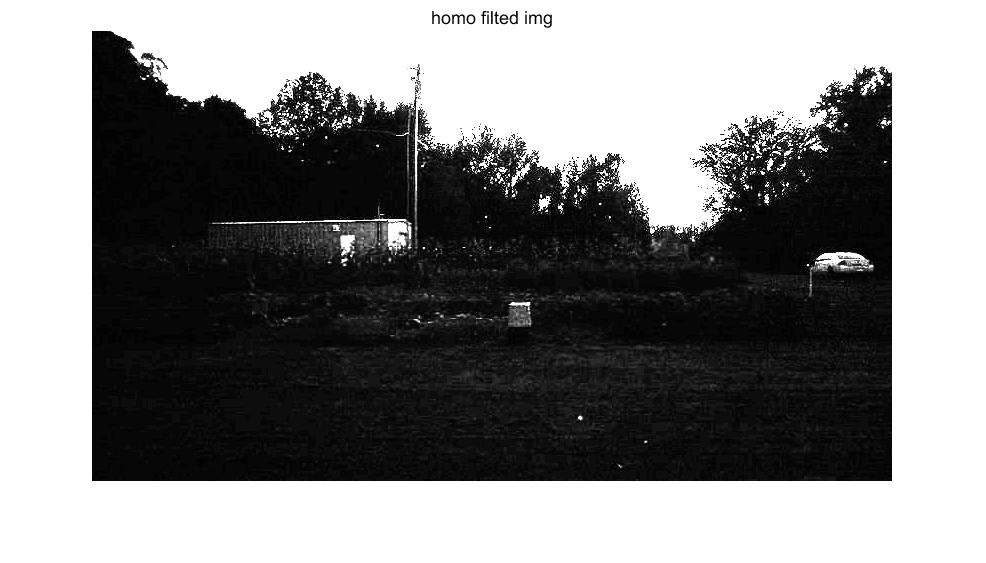
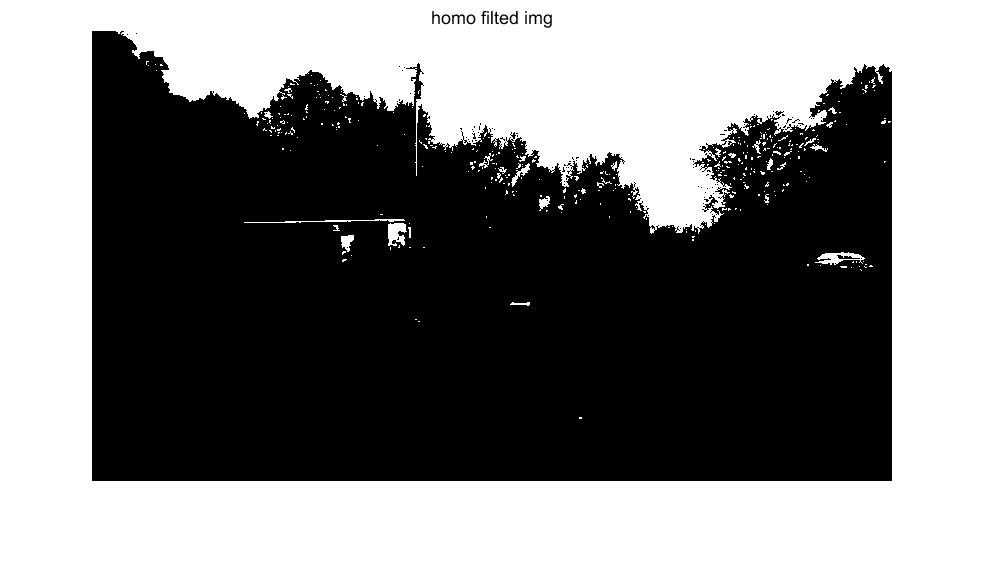
Site updated: 2020-10-13 15:33:39

diff --git a/2020/10/06/Matlab-同态滤波/index.html b/2020/10/06/Matlab-同态滤波/index.html
@@ -87,9 +87,13 @@
 <meta property="og:description" content="一、什么是同态滤波根据成像原理，一幅图像可以分成两种成分的乘积叠加，一种成分是入射的光强L(x,y)，另一种是反射到人眼中的光强R(x,y)，二者是乘性叠加，所以一幅图像可以表示为F(x,y)&#x3D;L(x,y)*R(x,Y)。同态滤波通过将图像取对数，ln(F(x,y))&#x3D;ln(L(x,y))+ln(R(x,y))，将乘性耦合的入射光和反射光成分解耦，变成加性耦合，这样就可以利用线性性分别对两种成分进">
 <meta property="og:locale" content="zh_CN">
 <meta property="og:image" content="http://jiahaohong.github.io/2020/10/06/Matlab-%E5%90%8C%E6%80%81%E6%BB%A4%E6%B3%A2/1.jpg">
+<meta property="og:image" content="http://jiahaohong.github.io/2020/10/06/Matlab-%E5%90%8C%E6%80%81%E6%BB%A4%E6%B3%A2/gray.jpg">
 <meta property="og:image" content="http://jiahaohong.github.io/2020/10/06/Matlab-%E5%90%8C%E6%80%81%E6%BB%A4%E6%B3%A2/0_2-2-0_2-1000.jpg">
+<meta property="og:image" content="http://jiahaohong.github.io/2020/10/06/Matlab-%E5%90%8C%E6%80%81%E6%BB%A4%E6%B3%A2/error1.jpg">
+<meta property="og:image" content="http://jiahaohong.github.io/2020/10/06/Matlab-%E5%90%8C%E6%80%81%E6%BB%A4%E6%B3%A2/homofilt.jpg">
+<meta property="og:image" content="http://jiahaohong.github.io/2020/10/06/Matlab-%E5%90%8C%E6%80%81%E6%BB%A4%E6%B3%A2/sign.jpg">
 <meta property="article:published_time" content="2020-10-06T02:51:54.000Z">
-<meta property="article:modified_time" content="2020-10-09T06:15:50.835Z">
+<meta property="article:modified_time" content="2020-10-13T07:32:50.353Z">
 <meta property="article:author" content="Darcy">
 <meta property="article:tag" content="Matlab">
 <meta property="article:tag" content="图像处理">
@@ -354,16 +358,30 @@
         <h3 id="一、什么是同态滤波"><a href="#一、什么是同态滤波" class="headerlink" title="一、什么是同态滤波"></a>一、什么是同态滤波</h3><p>根据成像原理，一幅图像可以分成两种成分的乘积叠加，一种成分是入射的光强<strong>L(x,y)</strong>，另一种是反射到人眼中的光强<strong>R(x,y)</strong>，二者是乘性叠加，所以一幅图像可以表示为<strong>F(x,y)=L(x,y)*R(x,Y)</strong>。<br>同态滤波通过将图像取对数，<strong>ln(F(x,y))=ln(L(x,y))+ln(R(x,y))</strong>，将乘性耦合的入射光和反射光成分解耦，变成加性耦合，这样就可以利用线性性分别对两种成分进行滤波处理。由于反射光强一般是高频成分，而入射光强是低频成分，所以用高通滤波器可以将入射光成分滤掉，得到更加清楚的细节。同态滤波是通过物理规律将图像进行分解操作，滤波器是在滤波过程中的一种频率选择方法，同态滤波并没有设计一种新的滤波器。</p>
 <h3 id="二、同态滤波实现"><a href="#二、同态滤波实现" class="headerlink" title="二、同态滤波实现"></a>二、同态滤波实现</h3><h4 id="同态滤波结构"><a href="#同态滤波结构" class="headerlink" title="同态滤波结构"></a>同态滤波结构</h4><figure class="highlight plain"><table><tr><td class="gutter"><pre><span class="line">1</span><br><span class="line">2</span><br><span class="line">3</span><br><span class="line">4</span><br><span class="line">5</span><br><span class="line">6</span><br><span class="line">7</span><br><span class="line">8</span><br><span class="line">9</span><br><span class="line">10</span><br><span class="line">11</span><br></pre></td><td class="code"><pre><span class="line">homomophic filter</span><br><span class="line">|</span><br><span class="line">|-log_img &#x3D; log(img + 1)</span><br><span class="line">|</span><br><span class="line">|-ft_img &#x3D; fft(img)</span><br><span class="line">|</span><br><span class="line">|-h_img &#x3D; ft_img.*H</span><br><span class="line">|</span><br><span class="line">|-ift_img &#x3D; ifft(h_img)</span><br><span class="line">|</span><br><span class="line">|-res_img &#x3D; exp(ift_img) - 1</span><br></pre></td></tr></table></figure>
 
-<h4 id="matlab代码"><a href="#matlab代码" class="headerlink" title="matlab代码"></a>matlab代码</h4><figure class="highlight matlab"><table><tr><td class="gutter"><pre><span class="line">1</span><br><span class="line">2</span><br><span class="line">3</span><br><span class="line">4</span><br><span class="line">5</span><br><span class="line">6</span><br><span class="line">7</span><br><span class="line">8</span><br><span class="line">9</span><br><span class="line">10</span><br><span class="line">11</span><br><span class="line">12</span><br><span class="line">13</span><br><span class="line">14</span><br><span class="line">15</span><br><span class="line">16</span><br><span class="line">17</span><br><span class="line">18</span><br><span class="line">19</span><br><span class="line">20</span><br><span class="line">21</span><br><span class="line">22</span><br><span class="line">23</span><br><span class="line">24</span><br><span class="line">25</span><br><span class="line">26</span><br><span class="line">27</span><br><span class="line">28</span><br><span class="line">29</span><br><span class="line">30</span><br></pre></td><td class="code"><pre><span class="line"><span class="function"><span class="keyword">function</span> <span class="params">[ output_img ]</span> = <span class="title">homomorphic_filt</span><span class="params">( input_img, rL, rH, c, d )</span></span></span><br><span class="line"></span><br><span class="line">    <span class="comment">%同态滤波参数设置</span></span><br><span class="line">    <span class="comment">%rL = 0.4; %低频放大系数</span></span><br><span class="line">    <span class="comment">%rH = 10; %高频放大系数</span></span><br><span class="line">    <span class="comment">%c = 0.2; %高斯变换常数系数</span></span><br><span class="line">    <span class="comment">%d = 4000; %高斯变换系数</span></span><br><span class="line"></span><br><span class="line">    [M,N] = <span class="built_in">size</span>(input_img);</span><br><span class="line">    input_img = double(input_img);</span><br><span class="line"></span><br><span class="line">    log_img = <span class="built_in">log</span>(input_img+<span class="number">1</span>);</span><br><span class="line">    ft_img = fft2(log_img);</span><br><span class="line"></span><br><span class="line">    <span class="comment">%构造高斯滤波器</span></span><br><span class="line">    H = <span class="built_in">zeros</span>(M,N);</span><br><span class="line">    <span class="keyword">for</span> <span class="built_in">i</span> = <span class="number">1</span>:M</span><br><span class="line">        <span class="keyword">for</span> <span class="built_in">j</span> = <span class="number">1</span>:N</span><br><span class="line">            D = (<span class="built_in">i</span>.^<span class="number">2</span>+<span class="built_in">j</span>.^<span class="number">2</span>);</span><br><span class="line">            H(<span class="built_in">i</span>,<span class="built_in">j</span>) = (rH-rL).*(<span class="number">1</span>-<span class="built_in">exp</span>(-c.*(D./(d^<span class="number">2</span>))))+rL;</span><br><span class="line">        <span class="keyword">end</span></span><br><span class="line">    <span class="keyword">end</span></span><br><span class="line"></span><br><span class="line">    filted_img = H.*ft_img;</span><br><span class="line">    ift_img = ifft2(filted_img);</span><br><span class="line">    exp_img = <span class="built_in">exp</span>(ift_img)<span class="number">-1</span>;</span><br><span class="line"></span><br><span class="line">    output_img = uint8(<span class="built_in">abs</span>(exp_img));</span><br><span class="line"></span><br><span class="line"><span class="keyword">end</span></span><br></pre></td></tr></table></figure>
+<h4 id="matlab代码"><a href="#matlab代码" class="headerlink" title="matlab代码"></a>matlab代码</h4><figure class="highlight matlab"><table><tr><td class="gutter"><pre><span class="line">1</span><br><span class="line">2</span><br><span class="line">3</span><br><span class="line">4</span><br><span class="line">5</span><br><span class="line">6</span><br><span class="line">7</span><br><span class="line">8</span><br><span class="line">9</span><br><span class="line">10</span><br><span class="line">11</span><br><span class="line">12</span><br><span class="line">13</span><br><span class="line">14</span><br><span class="line">15</span><br><span class="line">16</span><br><span class="line">17</span><br><span class="line">18</span><br><span class="line">19</span><br><span class="line">20</span><br><span class="line">21</span><br><span class="line">22</span><br><span class="line">23</span><br><span class="line">24</span><br><span class="line">25</span><br><span class="line">26</span><br><span class="line">27</span><br><span class="line">28</span><br><span class="line">29</span><br><span class="line">30</span><br></pre></td><td class="code"><pre><span class="line"><span class="function"><span class="keyword">function</span> <span class="params">[ output_img ]</span> = <span class="title">homomorphic_filt</span><span class="params">( input_img, rL, rH, c, d )</span></span></span><br><span class="line"></span><br><span class="line">    <span class="comment">%同态滤波参数设置</span></span><br><span class="line">    <span class="comment">%rL = 0.4; %低频放大系数</span></span><br><span class="line">    <span class="comment">%rH = 10; %高频放大系数</span></span><br><span class="line">    <span class="comment">%c = 0.2; %高斯变换常数系数</span></span><br><span class="line">    <span class="comment">%d = 2000; %高斯变换系数</span></span><br><span class="line"></span><br><span class="line">    [M,N] = <span class="built_in">size</span>(input_img);</span><br><span class="line">    input_img = double(input_img);</span><br><span class="line"></span><br><span class="line">    log_img = <span class="built_in">log</span>(input_img+<span class="number">1</span>);</span><br><span class="line">    ft_img = fft2(log_img);</span><br><span class="line"></span><br><span class="line">    <span class="comment">%构造高斯滤波器</span></span><br><span class="line">    H = <span class="built_in">zeros</span>(M,N);</span><br><span class="line">    <span class="keyword">for</span> <span class="built_in">i</span> = <span class="number">1</span>:M</span><br><span class="line">        <span class="keyword">for</span> <span class="built_in">j</span> = <span class="number">1</span>:N</span><br><span class="line">            D = (<span class="built_in">i</span>.^<span class="number">2</span>+<span class="built_in">j</span>.^<span class="number">2</span>);</span><br><span class="line">            H(<span class="built_in">i</span>,<span class="built_in">j</span>) = (rH-rL).*(<span class="number">1</span>-<span class="built_in">exp</span>(-c.*(D./(d^<span class="number">2</span>))))+rL;</span><br><span class="line">        <span class="keyword">end</span></span><br><span class="line">    <span class="keyword">end</span></span><br><span class="line"></span><br><span class="line">    filted_img = H.*ft_img;</span><br><span class="line">    ift_img = ifft2(filted_img);</span><br><span class="line">    exp_img = <span class="built_in">exp</span>(ift_img)<span class="number">-1</span>;</span><br><span class="line"></span><br><span class="line">    output_img = uint8(<span class="built_in">abs</span>(exp_img));</span><br><span class="line"></span><br><span class="line"><span class="keyword">end</span></span><br></pre></td></tr></table></figure>
 
 <h4 id="有关中心化的处理"><a href="#有关中心化的处理" class="headerlink" title="有关中心化的处理"></a>有关中心化的处理</h4><p>参考了许多CSDN网站上的博客，发现他们都有将高斯滤波器中心化的操作，但是我个人认为这是不必要的操作，仅仅是坐标轴的变换而已。<br>我们来分类讨论一下，如果图像的傅里叶变换没有进行平移操作（fftshift），那么结果的左上角是低频成分，沿着x、y轴坐标增加的方向，频率逐渐增高，那么高通滤波器应该如何设置呢？以左上角为原点，到远点的距离为变量即可构造高斯高通滤波器。但是如果以图片中心点为原点，这时候H需要进行平移，将它和图像的傅里叶变换结果的高低频区域对齐。</p>
 <h3 id="三、实验结果"><a href="#三、实验结果" class="headerlink" title="三、实验结果"></a>三、实验结果</h3><img src="/2020/10/06/Matlab-%E5%90%8C%E6%80%81%E6%BB%A4%E6%B3%A2/1.jpg">  
 <center>原图</center>
+<img src="/2020/10/06/Matlab-%E5%90%8C%E6%80%81%E6%BB%A4%E6%B3%A2/gray.jpg">  
+<center>灰度图</center>
 <img src="/2020/10/06/Matlab-%E5%90%8C%E6%80%81%E6%BB%A4%E6%B3%A2/0_2-2-0_2-1000.jpg">  
 <center>变换后的图</center>
 
-<h3 id="四、失误与总结"><a href="#四、失误与总结" class="headerlink" title="四、失误与总结"></a>四、失误与总结</h3><h4 id="调参"><a href="#调参" class="headerlink" title="调参"></a>调参</h4><p>这次的实验参数较多，调参的过程比设计算法的过程还要长，但是通过调参也能够理解各个参数的对图像的影响。比如d和rH的作用又互相抵消的效果，c参数会让图片整体明暗发生变化。至于为什么会出现这些现象，还是要从原理入手，这里还需研究。后续如果有可能的话，可以制作四个参数在一定范围内变化的图像效果变化动图，更加直观的显示四个参数的影响。</p>
+<p>可以看出变换后的图像有明显的二值化现象，图片的展现效果不好。</p>
+<h3 id="四、失误与总结"><a href="#四、失误与总结" class="headerlink" title="四、失误与总结"></a>四、失误与总结</h3><h4 id="图像二值化的原因及改进"><a href="#图像二值化的原因及改进" class="headerlink" title="图像二值化的原因及改进"></a>图像二值化的原因及改进</h4><p>在调试过程中，发现取指数后的矩阵元素的值非常小，所以在之后的取整等操作无法反映图像的真实灰度，因此需要将取对数后的图像的灰度拓展到0到255。改进策略是将指数图像的最大最小值取出，然后将指数图像与最小值的差按比例放大到0到255。<br><img src="/2020/10/06/Matlab-%E5%90%8C%E6%80%81%E6%BB%A4%E6%B3%A2/error1.jpg">  </p>
+<center>取指数后的图像矩阵部分元素</center>  
 
+<ul>
+<li>改进后的代码 <figure class="highlight matlab"><table><tr><td class="gutter"><pre><span class="line">1</span><br><span class="line">2</span><br><span class="line">3</span><br><span class="line">4</span><br><span class="line">5</span><br><span class="line">6</span><br><span class="line">7</span><br><span class="line">8</span><br><span class="line">9</span><br><span class="line">10</span><br><span class="line">11</span><br><span class="line">12</span><br><span class="line">13</span><br><span class="line">14</span><br><span class="line">15</span><br><span class="line">16</span><br><span class="line">17</span><br><span class="line">18</span><br><span class="line">19</span><br><span class="line">20</span><br><span class="line">21</span><br><span class="line">22</span><br><span class="line">23</span><br><span class="line">24</span><br><span class="line">25</span><br><span class="line">26</span><br><span class="line">27</span><br><span class="line">28</span><br><span class="line">29</span><br><span class="line">30</span><br><span class="line">31</span><br></pre></td><td class="code"><pre><span class="line"><span class="function"><span class="keyword">function</span> <span class="params">[ output_img ]</span> = <span class="title">homomorphic_filt</span><span class="params">( input_img, rL, rH, c, d )</span></span></span><br><span class="line"></span><br><span class="line">    <span class="comment">%同态滤波参数设置</span></span><br><span class="line">    <span class="comment">%rL = 0.1; %低频放大系数</span></span><br><span class="line">    <span class="comment">%rH = 5; %高频放大系数</span></span><br><span class="line">    <span class="comment">%c = 0.2; %高斯变换常数系数</span></span><br><span class="line">    <span class="comment">%d = 1000; %高斯变换系数</span></span><br><span class="line"></span><br><span class="line">    [M,N] = <span class="built_in">size</span>(input_img);</span><br><span class="line">    input_img = double(input_img);</span><br><span class="line"></span><br><span class="line">    log_img = <span class="built_in">log</span>(input_img+<span class="number">1</span>);</span><br><span class="line">    ft_img = fft2(log_img);</span><br><span class="line"></span><br><span class="line">    <span class="comment">%构造高斯滤波器</span></span><br><span class="line">    H = <span class="built_in">zeros</span>(M,N);</span><br><span class="line">    <span class="keyword">for</span> <span class="built_in">i</span> = <span class="number">1</span>:M</span><br><span class="line">        <span class="keyword">for</span> <span class="built_in">j</span> = <span class="number">1</span>:N</span><br><span class="line">            D = (<span class="built_in">i</span>.^<span class="number">2</span>+<span class="built_in">j</span>.^<span class="number">2</span>);</span><br><span class="line">            H(<span class="built_in">i</span>,<span class="built_in">j</span>) = (rH-rL).*(<span class="number">1</span>-<span class="built_in">exp</span>(-c.*(D./(d^<span class="number">2</span>))))+rL;</span><br><span class="line">        <span class="keyword">end</span></span><br><span class="line">    <span class="keyword">end</span></span><br><span class="line"></span><br><span class="line">    filted_img = H.*ft_img;</span><br><span class="line">    ift_img = ifft2(filted_img);</span><br><span class="line">    exp_img = <span class="built_in">exp</span>(ift_img);</span><br><span class="line">    output_img = </span><br><span class="line">        uint8( <span class="number">255</span> * ( exp_img - <span class="built_in">ones</span>(M,N)*<span class="built_in">min</span>(<span class="built_in">min</span>(exp_img)) ) </span><br><span class="line">                / ( <span class="built_in">max</span>(<span class="built_in">max</span>(exp_img)) - <span class="built_in">min</span>(<span class="built_in">min</span>(exp_img)) ) );</span><br><span class="line">    <span class="comment">%output_img = uint8(abs(exp_img));</span></span><br><span class="line"><span class="keyword">end</span></span><br></pre></td></tr></table></figure></li>
+<li>改进后实验结果<img src="/2020/10/06/Matlab-%E5%90%8C%E6%80%81%E6%BB%A4%E6%B3%A2/homofilt.jpg">  
+<center>改进后变换后的图</center>
+
+
+</li>
+</ul>
+<h4 id="调参"><a href="#调参" class="headerlink" title="调参"></a>调参</h4><p>这次的实验参数较多，调参的过程比设计算法的过程还要长，但是通过调参也能够理解各个参数的对图像的影响。比如d和rH的作用又互相抵消的效果，c参数会让图片整体明暗发生变化。至于为什么会出现这些现象，还是要从原理入手，这里还需研究。后续如果有可能的话，可以制作四个参数在一定范围内变化的图像效果变化动图，更加直观的显示四个参数的影响。</p>
+<img src="/2020/10/06/Matlab-%E5%90%8C%E6%80%81%E6%BB%A4%E6%B3%A2/sign.jpg"> 
       
     </div>
     
@@ -546,7 +564,7 @@
             
 
             
-              <div class="post-toc-content"><ol class="nav"><li class="nav-item nav-level-3"><a class="nav-link" href="#一、什么是同态滤波"><span class="nav-text">一、什么是同态滤波</span></a></li><li class="nav-item nav-level-3"><a class="nav-link" href="#二、同态滤波实现"><span class="nav-text">二、同态滤波实现</span></a><ol class="nav-child"><li class="nav-item nav-level-4"><a class="nav-link" href="#同态滤波结构"><span class="nav-text">同态滤波结构</span></a></li><li class="nav-item nav-level-4"><a class="nav-link" href="#matlab代码"><span class="nav-text">matlab代码</span></a></li><li class="nav-item nav-level-4"><a class="nav-link" href="#有关中心化的处理"><span class="nav-text">有关中心化的处理</span></a></li></ol></li><li class="nav-item nav-level-3"><a class="nav-link" href="#三、实验结果"><span class="nav-text">三、实验结果</span></a></li><li class="nav-item nav-level-3"><a class="nav-link" href="#四、失误与总结"><span class="nav-text">四、失误与总结</span></a><ol class="nav-child"><li class="nav-item nav-level-4"><a class="nav-link" href="#调参"><span class="nav-text">调参</span></a></li></ol></li></ol></div>
+              <div class="post-toc-content"><ol class="nav"><li class="nav-item nav-level-3"><a class="nav-link" href="#一、什么是同态滤波"><span class="nav-text">一、什么是同态滤波</span></a></li><li class="nav-item nav-level-3"><a class="nav-link" href="#二、同态滤波实现"><span class="nav-text">二、同态滤波实现</span></a><ol class="nav-child"><li class="nav-item nav-level-4"><a class="nav-link" href="#同态滤波结构"><span class="nav-text">同态滤波结构</span></a></li><li class="nav-item nav-level-4"><a class="nav-link" href="#matlab代码"><span class="nav-text">matlab代码</span></a></li><li class="nav-item nav-level-4"><a class="nav-link" href="#有关中心化的处理"><span class="nav-text">有关中心化的处理</span></a></li></ol></li><li class="nav-item nav-level-3"><a class="nav-link" href="#三、实验结果"><span class="nav-text">三、实验结果</span></a></li><li class="nav-item nav-level-3"><a class="nav-link" href="#四、失误与总结"><span class="nav-text">四、失误与总结</span></a><ol class="nav-child"><li class="nav-item nav-level-4"><a class="nav-link" href="#图像二值化的原因及改进"><span class="nav-text">图像二值化的原因及改进</span></a></li><li class="nav-item nav-level-4"><a class="nav-link" href="#调参"><span class="nav-text">调参</span></a></li></ol></li></ol></div>
             
 
           </div>

diff --git a/css/main.css b/css/main.css
@@ -1852,7 +1852,7 @@ pre .javascript .function {
   width: 4px;
   height: 4px;
   border-radius: 50%;
-  background: #ff36ff;
+  background: #74e465;
 }
 .links-of-blogroll {
   font-size: 13px;
